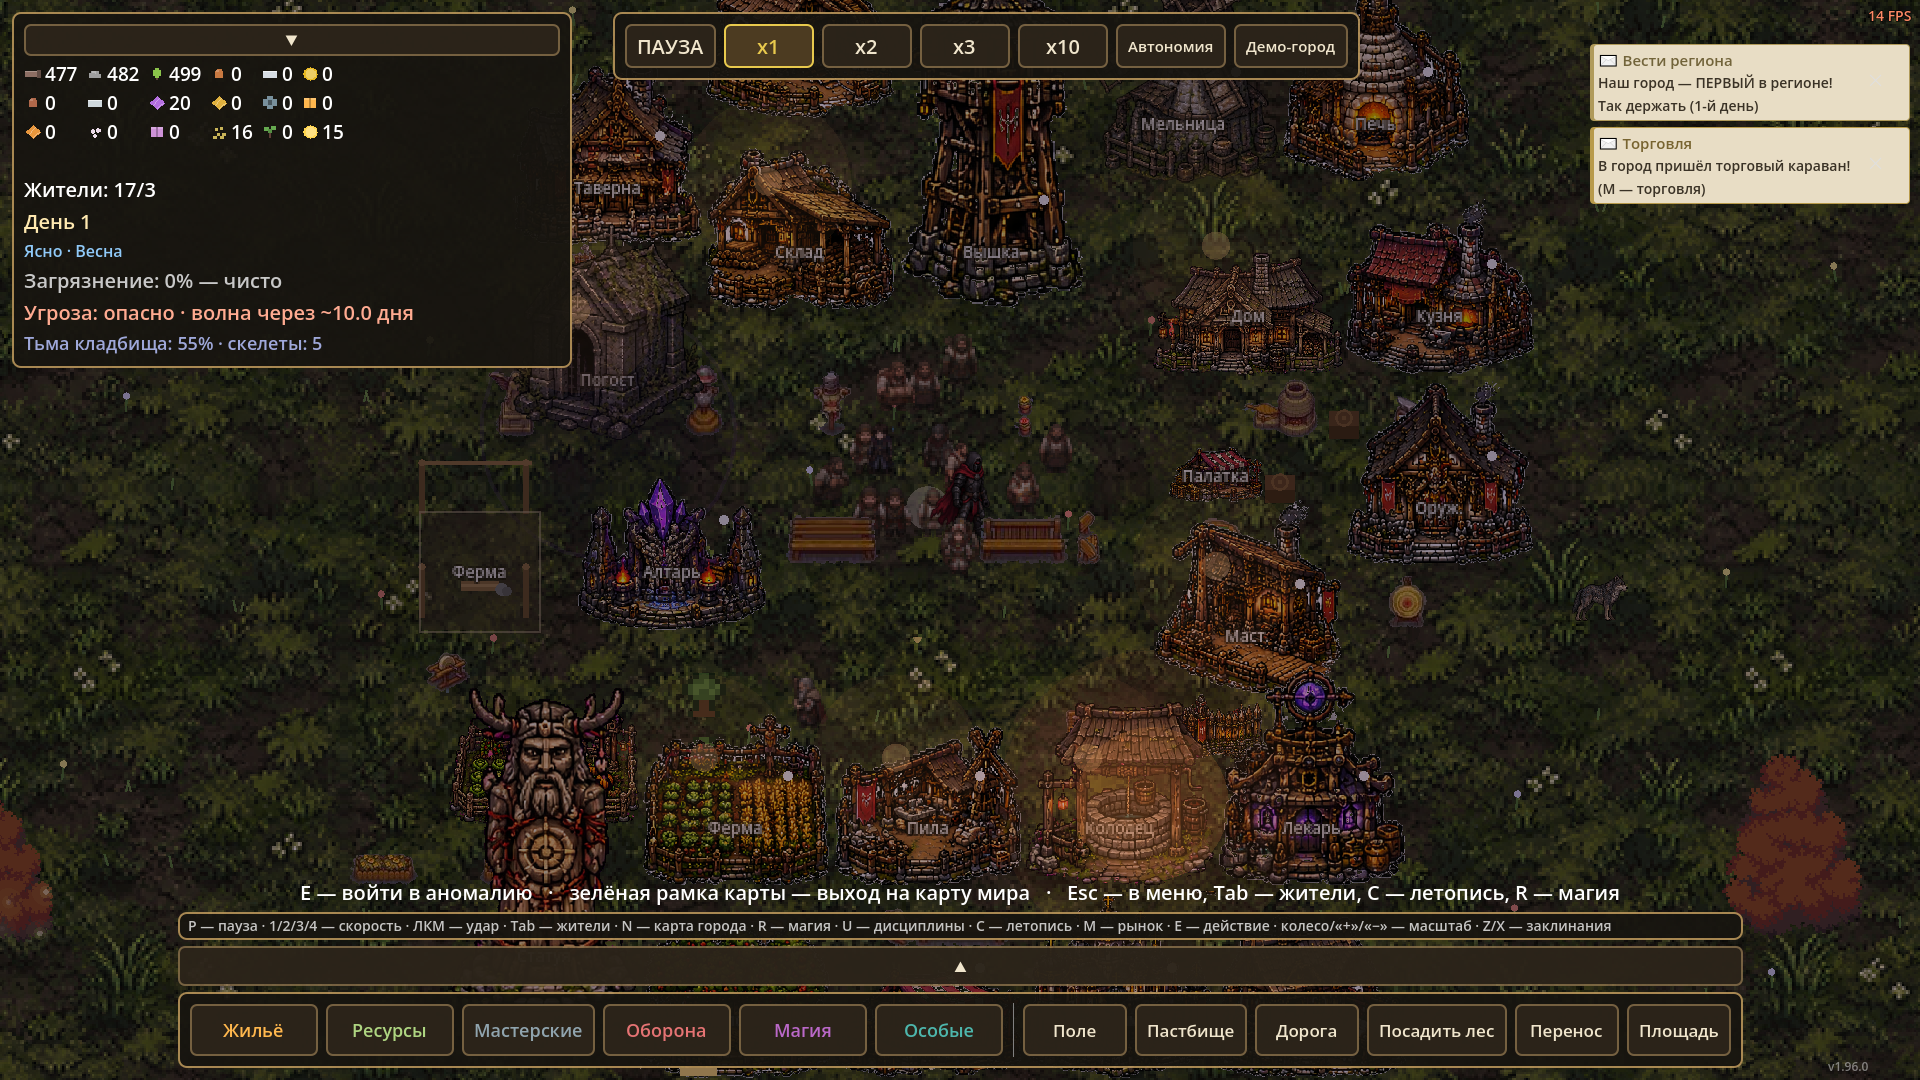
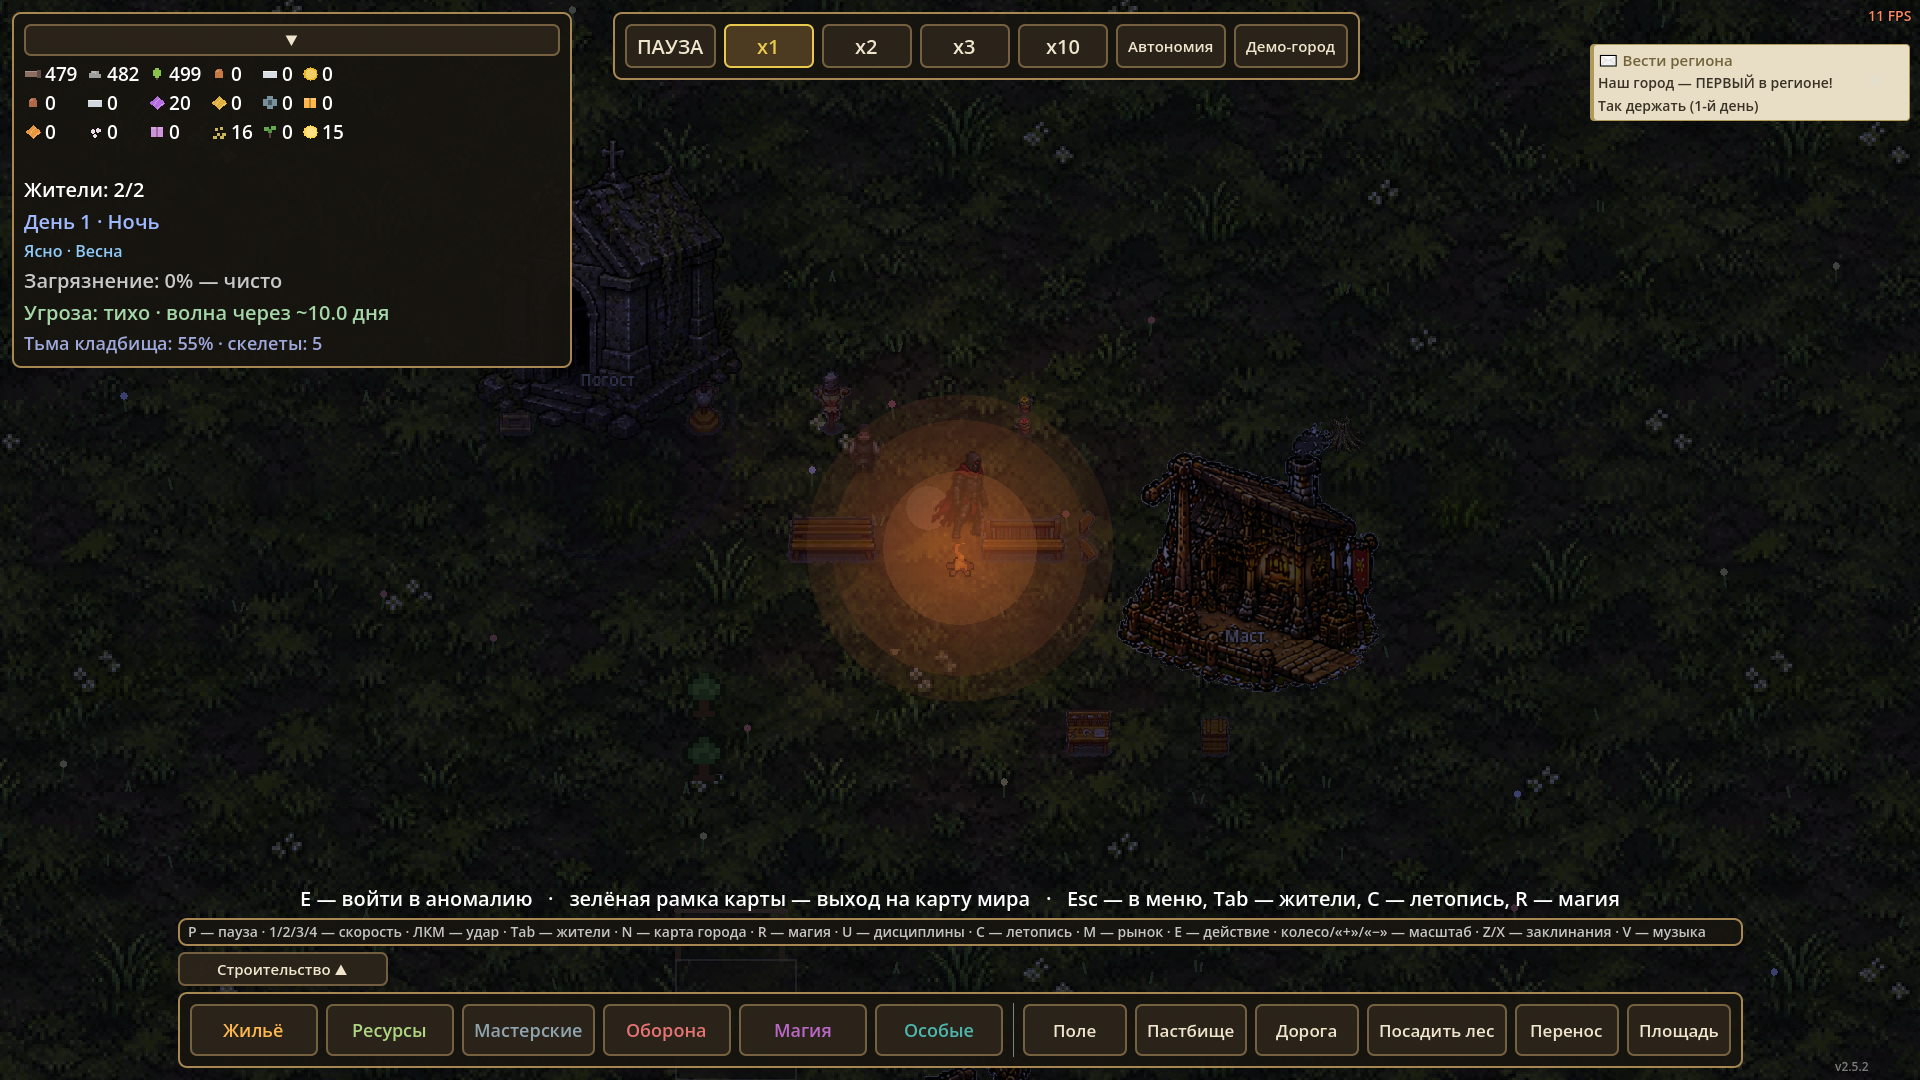
2.5.3: 36 кадров фауны B отзеркалены — единая ориентация с старыми пулами (лиса при повороте показывала чужой силуэт); светящиеся окна на домах ночью по расписанию фонарей; SHOT_NIGHT хук; тесты зелёные

diff --git a/CHANGELOG_E2.md b/CHANGELOG_E2.md
@@ -13,6 +13,19 @@
 > «Как устроено сейчас» — дизайн-доки `docs/design/<модуль>.md`.
 > По разделам удобно искать: `grep -n "^## " CHANGELOG_E2.md`.
 
+## v2.5.3 — звери не «превращаются» при повороте; окна домов светятся (2026-11-25)
+
+- **БАГ «лиса превращается в зайца»**: кадры фауны B нарезаны из листа,
+  где звери смотрят ВЛЕВО, а старые пулы — ВПРАВО. Смешанные ориентации
+  в одном пуле видов при повороте показывали чужой силуэт (сидячая лиса
+  an_fox_b_1/2 читалась как заяц). Все 36 B-кадров отзеркалены —
+  ориентация пула единая. Пересмотрены контакт-листами все виды:
+  волк/лиса/заяц/ворон/рыба/жаба — соответствие кадров видам верное;
+- **СВЕТЯЩИЕСЯ ОКНА на домах ночью**: house/tavern/pier/brewery рисуют
+  тёплые окна поверх спрайта по расписанию фонарей (21:00-24:00 ярко,
+  после полуночи гаснут) — «в домах есть свет», источник видно глазами;
+- SHOT_NIGHT=1 — ночной кадр в shot_city.
+
 ## v2.5.2 — вода не просвечивает при отдалении (2026-11-25)
 
 Фикс регрессии 2.5.1: тело воды рисует ТОЛЬКО живой слой (в запечке —
